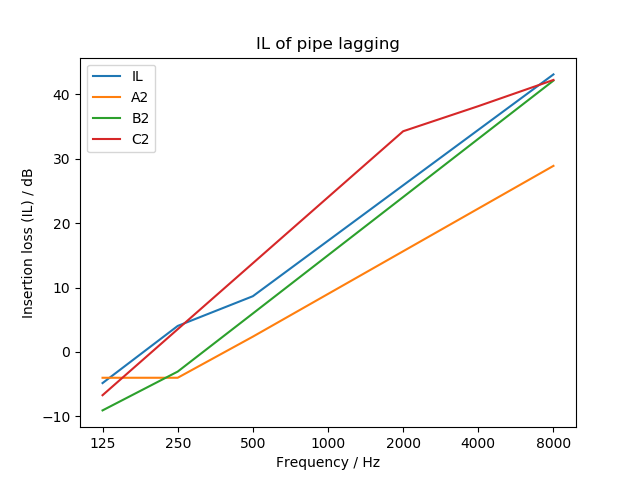
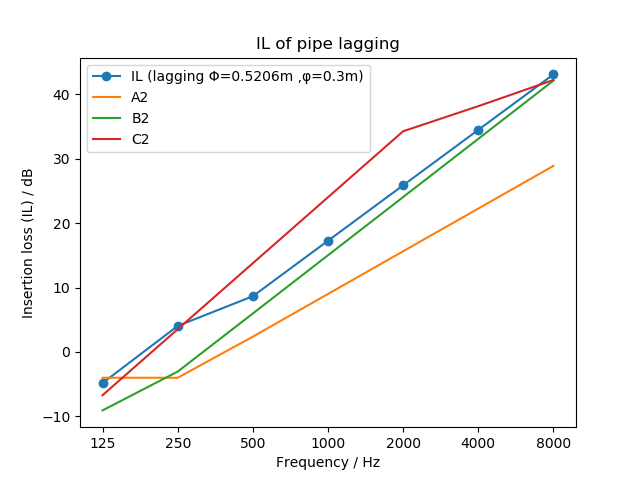
commit 2 add plot add plot output figure

diff --git a/IL_of_pipe_lagging(Hale+Michelsen).py b/IL_of_pipe_lagging(Hale+Michelsen).py
@@ -1,4 +1,6 @@
 # 计算管道隔声套在各频段中心频率的插入损失，并输出 插入损失-频率 折线图，为了与标准隔声等级比较，同时输出了标准隔声等级最小插入损失。
+# 该程序的使用方法：在本文件的“# 常量及隔声套的几何参数、材料参数、声波频带中心频率”一段里设置需要的变量，在终端(Terminal)里输入“python<"IL_of_pipe_lagging(Hale+Michelsen).py" > printout.txt”即可
+# 输出的文件有：①图片 IL.png；②文本 printout.txt
 # 主要参考：[Engineering Noise Control] 4th p429-431,[GB/T 31013-2014 声学 管道、阀门和法兰的隔声] p19 附录A
 # 版本：20190829
 # 魏里来 weililai@foxmail.com
@@ -50,7 +52,7 @@ while i <7 :
 
 # 输出各物理量及插入损失 IL
 print("T , c , E , niu , rho , D , l , h2 , h3 , d , m2 , m3 , m :")
-print(T,c,E,niu,rho,D,l,h2,h3,d,m2,m3,m)
+print(round(T,4),round(c,4),round(E,4),round(niu,4),round(rho,4),round(D,4),round(l,4),round(h2,4),round(h3,4),round(d,4),round(m2,4),round(m3,4),round(m,4))
 print("            ")
 #print(B,m,c_L,f_r,f_c,xi_r,X_r,)
 #print("            ")
@@ -127,7 +129,9 @@ print("C3 = ",C3,"dB")
 
 # 作隔声量与频率的关系图
 fstr = [str(f[i]) for i in range(len(f))]  #倍频程数值转字符串，方便在坐标轴上均匀排布（倍频程在普通线性递增坐标轴上刻度不均匀）
-plt.plot(fstr, IL, label='IL')
+label_str = "IL (lagging Φ=" + str(round(d,4)) + "m ,φ=" + str(round(D,1)) + "m)"
+plt.title("IL of pipe lagging")
+plt.plot(fstr, IL, label=label_str,marker='o')
 if D <0.3 :
     plt.plot(fstr, A1, label='A1')
     plt.plot(fstr, B1, label='B1')
@@ -143,7 +147,6 @@ if D >=0.65 and D <1 :
 plt.legend() # 给曲线添加图例
 plt.xlabel('Frequency / Hz')
 plt.ylabel('Insertion loss (IL) / dB')
-plt.title("IL of pipe lagging")
 #plt.show()
 plt.savefig('IL.png')
 
